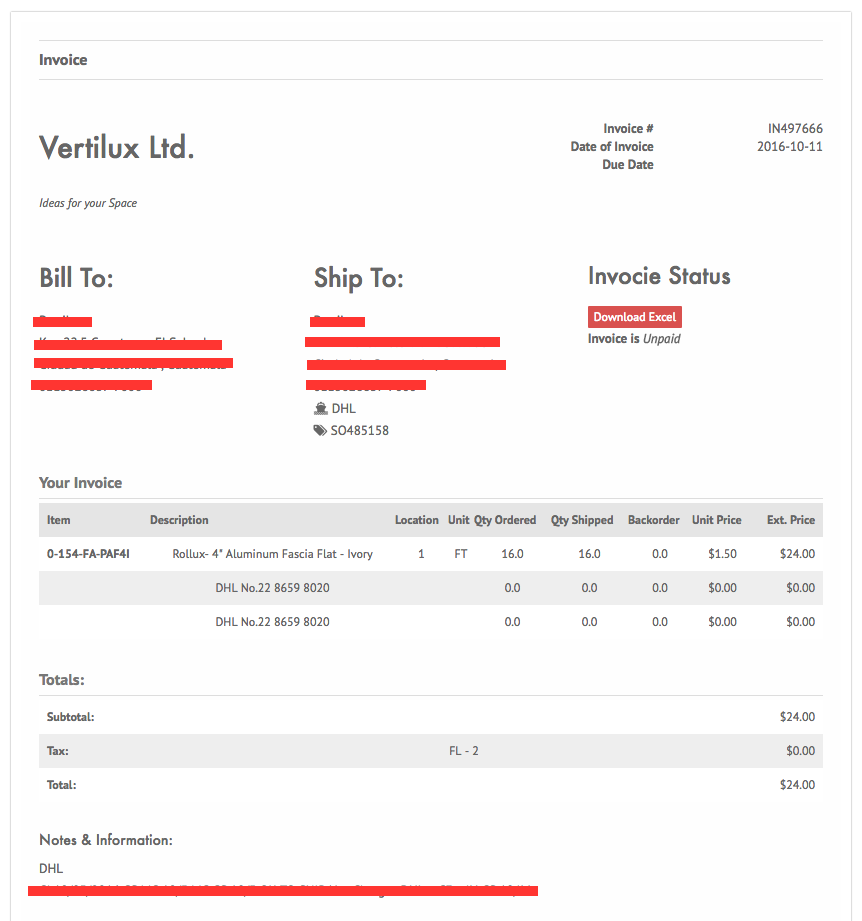
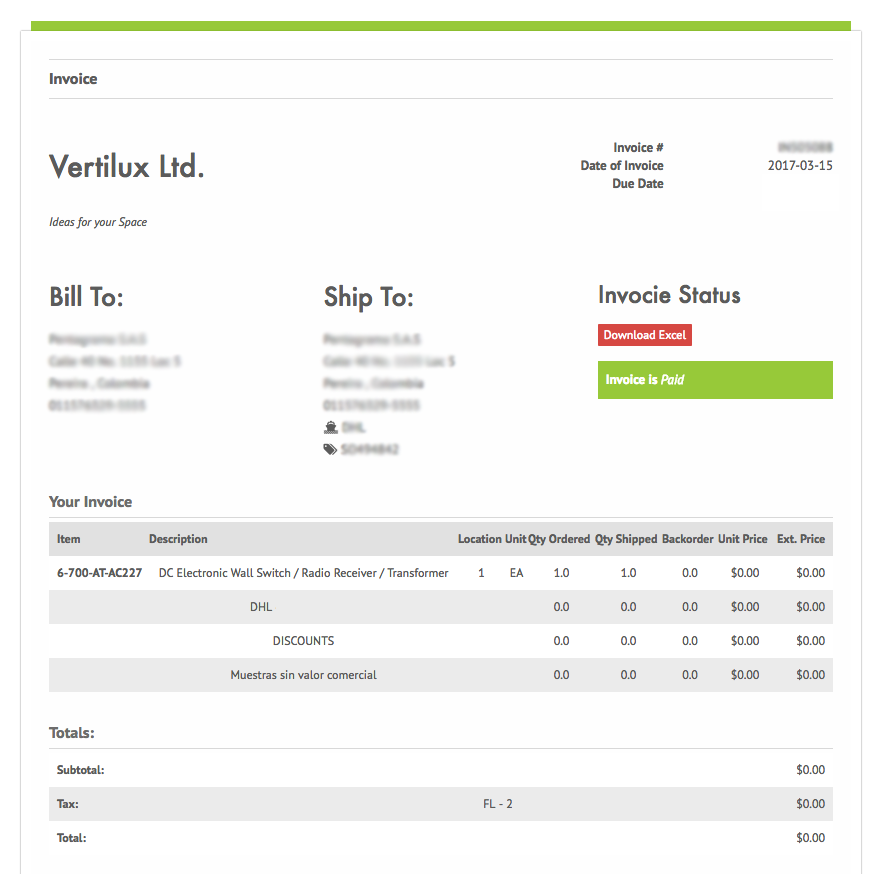
Update post about invocies and company details

diff --git a/_posts/2016-10-31-customer_invocies.md b/_posts/2016-10-31-customer_invocies.md
@@ -1,38 +1,55 @@
 ---
 layout: post
-title:  "List your Invoices"
-date:   2016-10-31 10:03:32 +0000
+title:  "Your Company Information and Invoices as Excel"
+date:   2017-03-21 10:03:32 +0000
 categories: sign up user account
 permalink: /post/:title
 ---
 Ever since we launched our new website, we have been striving to improve it. 
-Last week, we added a very useful tool for our customers. This week, we are 
-introducing a feature that will allow our customers to keep track of their 
-invoices and even download them as Excel files. To take advantage of this 
-feature you must sign in to your Vertilux account.
+Last week, we added a very useful tool for our customers. This week, we are
+introducing a feature that will allow our customers to keep track of their
+credit, sales order & invoices and even download them as Excel files. To take
+advantage of this feature you must sign in to your Vertilux account.
 [Sign in - Sign up Tutorial](/post/how-to-sign-up).   
 
 ### Step 1
-After you have successfully signed in to your Vertilux account, click on the 
+After you have successfully signed in to your Vertilux account, click on the
 symbol located in the upper right corner of your screen.   
 ![Cog - Top Right](/assets/images/posts/cog.png)
 Then, click on Account Profile:   
-![Acount Profile Link](/assets/images/posts/account_profile_link.png)   
+![Account Profile Link](/assets/images/posts/account_profile_link.png)   
 
 ### Step 2
-This will direct you to your User Account page, where you can update your personal 
-information, view your favorite products and your latest invoices:   
-![Acount Profile](/assets/images/posts/profile.png)   
+This will direct you to your User Account page, where you can update your personal
+information, view your favorite products and request access to your company information:   
+![Company Access Request](/assets/images/posts/company_access_request.png)   
 
-In order to see your latest invoices click on the Invoices tab.   
-![Invoices Profiel](/assets/images/posts/profile_invocie.png)   
+Then you will be asked for your Vertilux Account Number:
+![Account Number](/assets/images/posts/account_number_form.png)   
+
+Normally you should have acces in less than 24 hours:
+![Submit Message](/assets/images/posts/submit_message.png)   
+
+Once you have access to your company info, you will notice your profile had changed.
+Now, you have on the left a menu for your company, with the Company Details, Invoices
+and Sales Orders.
+![Submit Message](/assets/images/posts/profile_with_company.png)   
+
+#### Company Details:
+![Submit Message](/assets/images/posts/company_details.png)   
+
+#### Invoices:
+![Submit Message](/assets/images/posts/invoices.png)   
 
 ### Step 3
-Clicking on the Invoices tab will automatically display your 10 latest invoices. 
-If you are looking for a previous invoice, click on the Load All Invoices button.   
-You can also use the search button to search for a specific invoice. You can search 
-by invoice number, company name, order number, freight, etc.   
-Once you find the invoice you are looking for, click on the invoice number to see 
+Clicking on the invoice number to see the invoice detail.   
+If you are looking for a previous invoice, navigate through the pagination at the bottom:   
+![Invoice Pagination](/assets/images/posts/invoice_pagination.png)   
+
+You can also use the search form to search for a specific invoice:   
+![Invoice Search](/assets/images/posts/invoice_search.png)   
+
+Once you find the invoice you are looking for, click on the invoice number to see
 the invoice details.   
 ![Invoice Details](/assets/images/posts/invoice_detail.png)   
 
